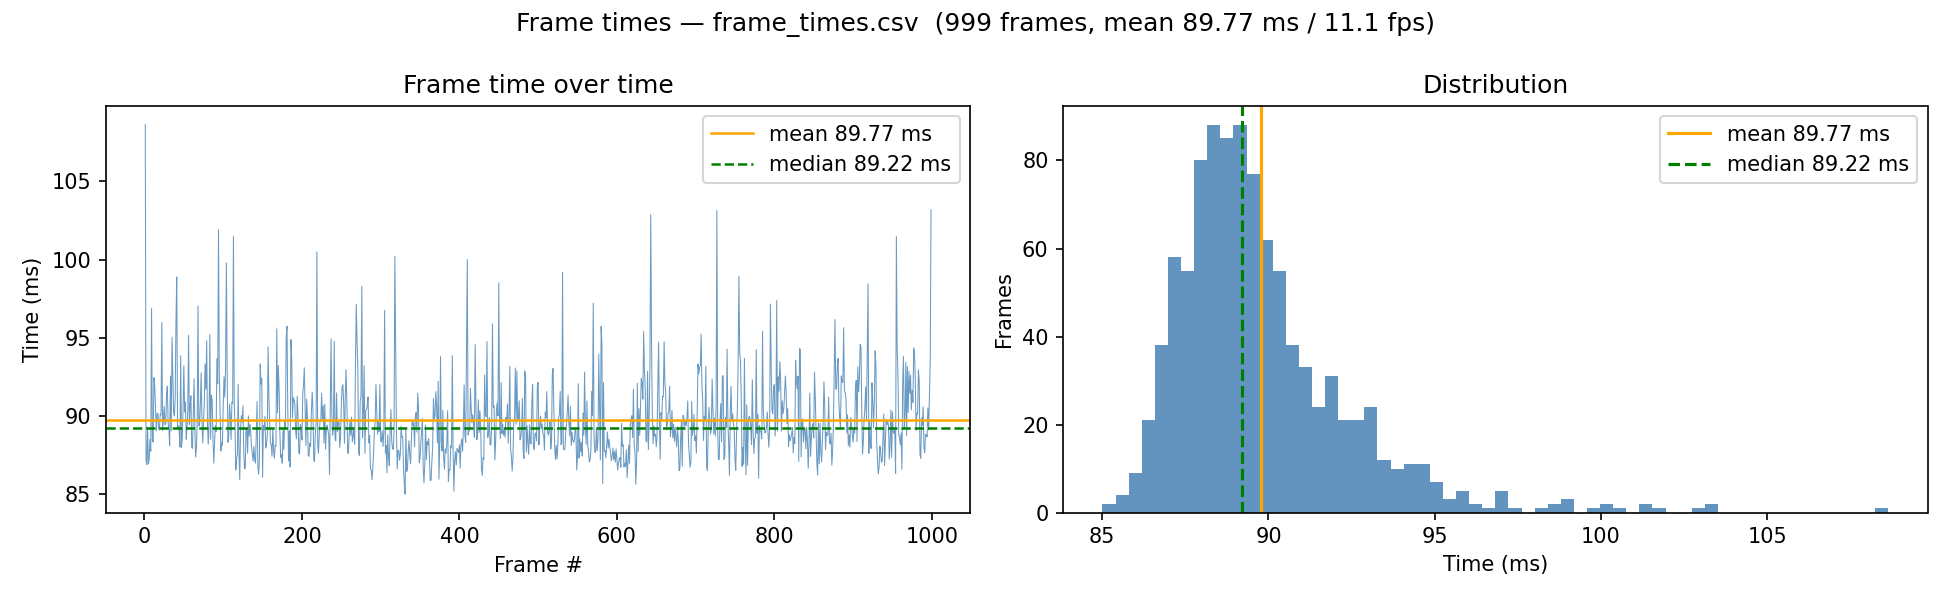
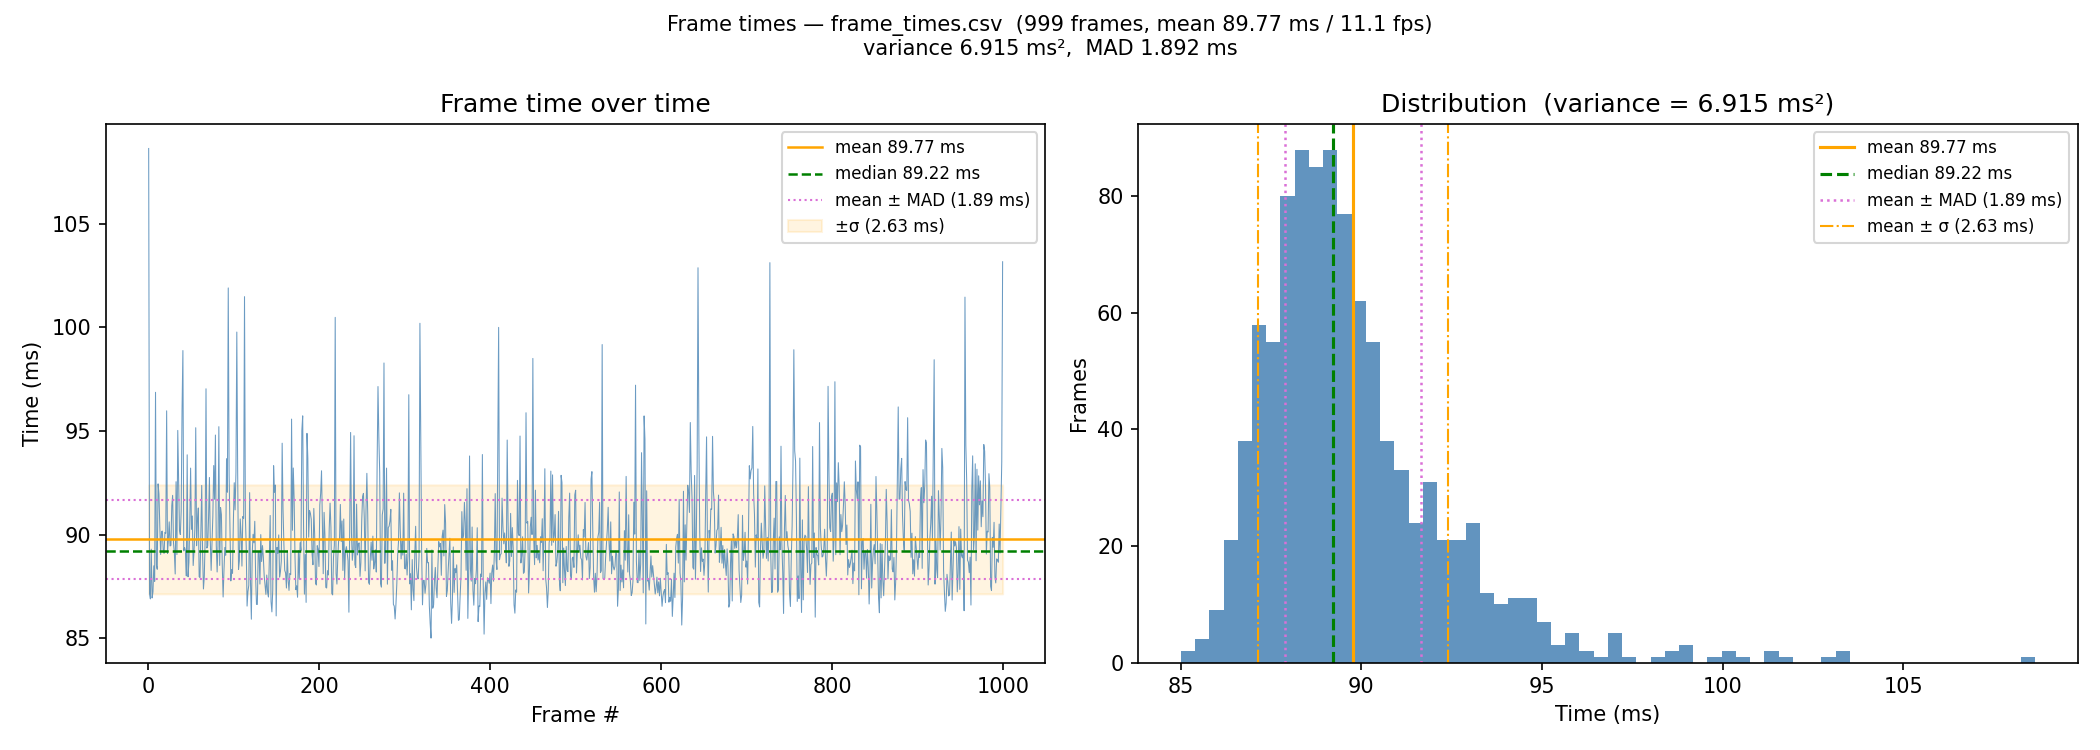
Update plot.py, recalculate all graph

diff --git a/plot.py b/plot.py
@@ -26,42 +26,63 @@ if not rows:
 
 frames, data_ms = zip(*rows)
 
-n      = len(data_ms)
-mean   = statistics.mean(data_ms)
-median = statistics.median(data_ms)
-stdev  = statistics.stdev(data_ms) if n > 1 else 0.0
-lo, hi = min(data_ms), max(data_ms)
+n        = len(data_ms)
+mean     = statistics.mean(data_ms)
+median   = statistics.median(data_ms)
+variance = statistics.variance(data_ms) if n > 1 else 0.0
+stdev    = variance ** 0.5
+mad      = statistics.mean(abs(x - mean) for x in data_ms)  # mean absolute deviation
+lo, hi   = min(data_ms), max(data_ms)
 
-print(f"Frames  : {n}")
-print(f"Mean    : {mean:.3f} ms  ({1000.0 / mean:.1f} fps)")
-print(f"Median  : {median:.3f} ms")
-print(f"Stdev   : {stdev:.3f} ms")
-print(f"Min     : {lo:.3f} ms")
-print(f"Max     : {hi:.3f} ms")
+print(f"Frames    : {n}")
+print(f"Mean      : {mean:.3f} ms  ({1000.0 / mean:.1f} fps)")
+print(f"Median    : {median:.3f} ms")
+print(f"Variance  : {variance:.3f} ms²")
+print(f"Stdev     : {stdev:.3f} ms")
+print(f"MAD       : {mad:.3f} ms")
+print(f"Min       : {lo:.3f} ms")
+print(f"Max       : {hi:.3f} ms")
 
-fig, axes = plt.subplots(1, 2, figsize=(13, 4))
-fig.suptitle(f"Frame times — {pathlib.Path(path).name}  "
-             f"({n} frames, mean {mean:.2f} ms / {1000/mean:.1f} fps)")
+fig, axes = plt.subplots(1, 2, figsize=(14, 5))
+fig.suptitle(
+    f"Frame times — {pathlib.Path(path).name}  "
+    f"({n} frames, mean {mean:.2f} ms / {1000/mean:.1f} fps)\n"
+    f"variance {variance:.3f} ms²,  MAD {mad:.3f} ms",
+    fontsize=10,
+)
 
 ax = axes[0]
 ax.plot(frames, data_ms, linewidth=0.5, color="steelblue", alpha=0.8)
-ax.axhline(mean,   color="orange", linewidth=1.2, label=f"mean {mean:.2f} ms")
-ax.axhline(median, color="green",  linewidth=1.2, linestyle="--",
+ax.axhline(mean,          color="orange", linewidth=1.2,
+           label=f"mean {mean:.2f} ms")
+ax.axhline(median,        color="green",  linewidth=1.2, linestyle="--",
            label=f"median {median:.2f} ms")
+ax.axhline(mean + mad,    color="orchid", linewidth=1.0, linestyle=":",
+           label=f"mean ± MAD ({mad:.2f} ms)")
+ax.axhline(mean - mad,    color="orchid", linewidth=1.0, linestyle=":")
+ax.fill_between(frames, mean - stdev, mean + stdev,
+                color="orange", alpha=0.12, label=f"±σ ({stdev:.2f} ms)")
 ax.set_xlabel("Frame #")
 ax.set_ylabel("Time (ms)")
 ax.set_title("Frame time over time")
-ax.legend()
+ax.legend(fontsize=8)
 
 ax = axes[1]
 ax.hist(data_ms, bins=60, color="steelblue", edgecolor="none", alpha=0.85)
-ax.axvline(mean,   color="orange", linewidth=1.5, label=f"mean {mean:.2f} ms")
-ax.axvline(median, color="green",  linewidth=1.5, linestyle="--",
+ax.axvline(mean,          color="orange", linewidth=1.5,
+           label=f"mean {mean:.2f} ms")
+ax.axvline(median,        color="green",  linewidth=1.5, linestyle="--",
            label=f"median {median:.2f} ms")
+ax.axvline(mean + mad,    color="orchid", linewidth=1.2, linestyle=":",
+           label=f"mean ± MAD ({mad:.2f} ms)")
+ax.axvline(mean - mad,    color="orchid", linewidth=1.2, linestyle=":")
+ax.axvline(mean + stdev,  color="orange", linewidth=1.0, linestyle="-.",
+           label=f"mean ± σ ({stdev:.2f} ms)")
+ax.axvline(mean - stdev,  color="orange", linewidth=1.0, linestyle="-.")
 ax.set_xlabel("Time (ms)")
 ax.set_ylabel("Frames")
-ax.set_title("Distribution")
-ax.legend()
+ax.set_title(f"Distribution  (variance = {variance:.3f} ms²)")
+ax.legend(fontsize=8)
 
 plt.tight_layout()
 out = pathlib.Path(path).with_suffix(".png")
